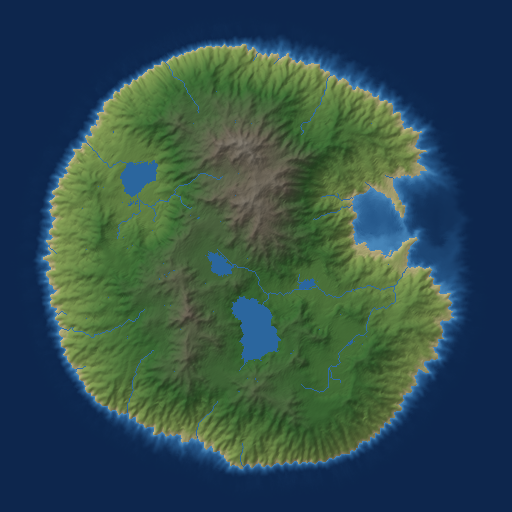
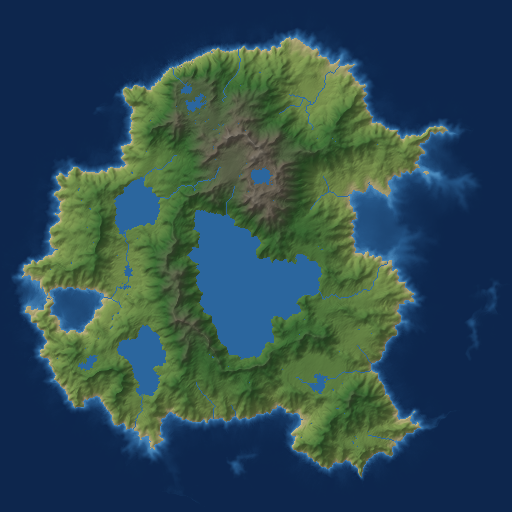
Make island coastlines as irregular as the original generator
The Java version perturbed the radial island falloff with a fully
normalised noise field at amplitude 1, which is what gave its islands
their irregular outlines; the rewrite sampled a raw (much weaker) field
at amplitude 0.35, so islands came out nearly circular.

The coast field is now normalised to [-1, 1] before use, making
coast_noise a true amplitude relative to the radial gradient, and the
defaults change to size 1.0 / coast_noise 1.0 (with two extra noise
octaves for finer coastline detail). Islands now show bays, peninsulas
and offshore islets again, with a distinct silhouette per seed.

CLI, Elixir defaults and docs updated; README example image regenerated
with the new defaults.

Claude-Session: https://claude.ai/code/session_016v6mEj62AQSf9qu1A2V87v

diff --git a/src/base.rs b/src/base.rs
@@ -54,18 +54,34 @@ pub fn generate(
 }
 
 /// Multiplies the map by a radial falloff so terrain fades into ocean at the
-/// edges. A secondary low-frequency noise perturbs the falloff to produce
-/// irregular, natural-looking coastlines.
+/// edges. A secondary noise field perturbs the falloff to produce irregular,
+/// natural-looking coastlines: bays, peninsulas and offshore islets.
 fn apply_island_mask(map: &mut Grid<f32>, seed: u32, island: &IslandParams) {
     let width = map.width();
     let height = map.height();
 
     let coast = Fbm::<OpenSimplex>::new(seed.wrapping_add(1))
-        .set_octaves(4)
+        .set_octaves(6)
         .set_frequency(3.0)
         .set_persistence(0.5);
 
     let scale = 1.0 / width.max(height) as f64;
+
+    // sample the coast field and normalise it to [-1, 1], so `coast_noise`
+    // is a true amplitude relative to the radial gradient regardless of
+    // the raw range the noise happens to produce
+    let mut wobble = Grid::new(width, height, 0.0f32);
+    let mut min_v = f32::MAX;
+    let mut max_v = f32::MIN;
+    for y in 0..height {
+        for x in 0..width {
+            let v = coast.get([x as f64 * scale, y as f64 * scale]) as f32;
+            wobble[(x, y)] = v;
+            min_v = min_v.min(v);
+            max_v = max_v.max(v);
+        }
+    }
+    let range = (max_v - min_v).max(f32::EPSILON);
 
     let cx = width as f32 * 0.5;
     let cy = height as f32 * 0.5;
@@ -77,9 +93,9 @@ fn apply_island_mask(map: &mut Grid<f32>, seed: u32, island: &IslandParams) {
             let dy = y as f32 - cy;
             let d = (dx * dx + dy * dy).sqrt() / radius;
 
-            let wobble = coast.get([x as f64 * scale, y as f64 * scale]).abs() as f32;
+            let w = ((wobble[(x, y)] - min_v) * 2.0 / range - 1.0).abs();
 
-            let falloff = 1.0 - (d.powi(3) + wobble * island.coast_noise);
+            let falloff = 1.0 - (d.powi(3) + w * island.coast_noise);
 
             let v = &mut map[(x, y)];
             *v = (*v * falloff).clamp(0.0, 1.0);

diff --git a/src/terrain.rs b/src/terrain.rs
@@ -51,18 +51,19 @@ impl NoiseParams {
 #[derive(Clone, Debug)]
 pub struct IslandParams {
     /// Island diameter as a fraction of the shorter map dimension, in
-    /// `(0, ~1.2]`. Default: `0.9`.
+    /// `(0, ~1.2]`. Default: `1.0`.
     pub size: f32,
-    /// Strength of the coastline perturbation noise; `0` gives a perfectly
-    /// round island. Default: `0.35`.
+    /// Strength of the coastline perturbation noise, relative to the
+    /// radial gradient: `0` gives a perfectly round island, `1` lets the
+    /// noise carve bays, peninsulas and offshore islets. Default: `1.0`.
     pub coast_noise: f32,
 }
 
 impl Default for IslandParams {
     fn default() -> Self {
         Self {
-            size: 0.9,
-            coast_noise: 0.35,
+            size: 1.0,
+            coast_noise: 1.0,
         }
     }
 }

diff --git a/src/main.rs b/src/main.rs
@@ -56,11 +56,11 @@ struct Args {
     persistence: f64,
 
     /// Island diameter as a fraction of the shorter map dimension
-    #[arg(long, default_value_t = 0.9)]
+    #[arg(long, default_value_t = 1.0)]
     island: f32,
 
-    /// Strength of the coastline perturbation noise
-    #[arg(long, default_value_t = 0.35)]
+    /// Strength of the coastline perturbation noise (0 = round island)
+    #[arg(long, default_value_t = 1.0)]
     coast_noise: f32,
 
     /// Disable island shaping (terrain reaches the borders)

diff --git a/docs/elixir_api.md b/docs/elixir_api.md
@@ -57,8 +57,8 @@ Raises `ArgumentError` on unknown option keys.
 | `:frequency` | `2.5` | Number of large features across the map (resolution-independent). |
 | `:lacunarity` | `2.0` | Frequency multiplier between octaves. |
 | `:persistence` | `0.5` | Amplitude multiplier between octaves. |
-| `:island` | `0.9` | Island diameter as a fraction of the shorter map dimension, `true` for the default, or `false` to let terrain reach the borders. |
-| `:coast_noise` | `0.35` | Coastline perturbation strength. |
+| `:island` | `1.0` | Island diameter as a fraction of the shorter map dimension, `true` for the default, or `false` to let terrain reach the borders. |
+| `:coast_noise` | `1.0` | Coastline perturbation strength; `0` gives a round island. |
 | `:erosion` | `true` | `true` (one droplet per cell), `false` (skip erosion), or a positive integer droplet count. |
 | `:rivers` | `0.01` | Approximate fraction of land covered by rivers, `true` for the default, or `false` to disable rivers and lakes. |
 

diff --git a/docs/rust_api.md b/docs/rust_api.md
@@ -109,8 +109,8 @@ in — the Elixir bindings do exactly that on their side of the boundary.
 
 | Field | Default | Description |
 |-------|---------|-------------|
-| `size: f32` | `0.9` | Island diameter as a fraction of the shorter map dimension. |
-| `coast_noise: f32` | `0.35` | Coastline perturbation strength; `0` gives a round island. |
+| `size: f32` | `1.0` | Island diameter as a fraction of the shorter map dimension. |
+| `coast_noise: f32` | `1.0` | Coastline perturbation strength relative to the radial gradient; `0` gives a round island, `1` carves bays, peninsulas and offshore islets. |
 
 ### `ErosionParams`
 
@@ -193,8 +193,8 @@ fn main() -> Result<(), Box<dyn std::error::Error>> {
             ..Default::default()
         })
         .island(IslandParams {
-            size: 0.9,
-            coast_noise: 0.35,
+            size: 1.0,
+            coast_noise: 1.0,
         })
         .erosion(ErosionParams {
             droplets: Some(2_000_000), // extra-deep valleys
